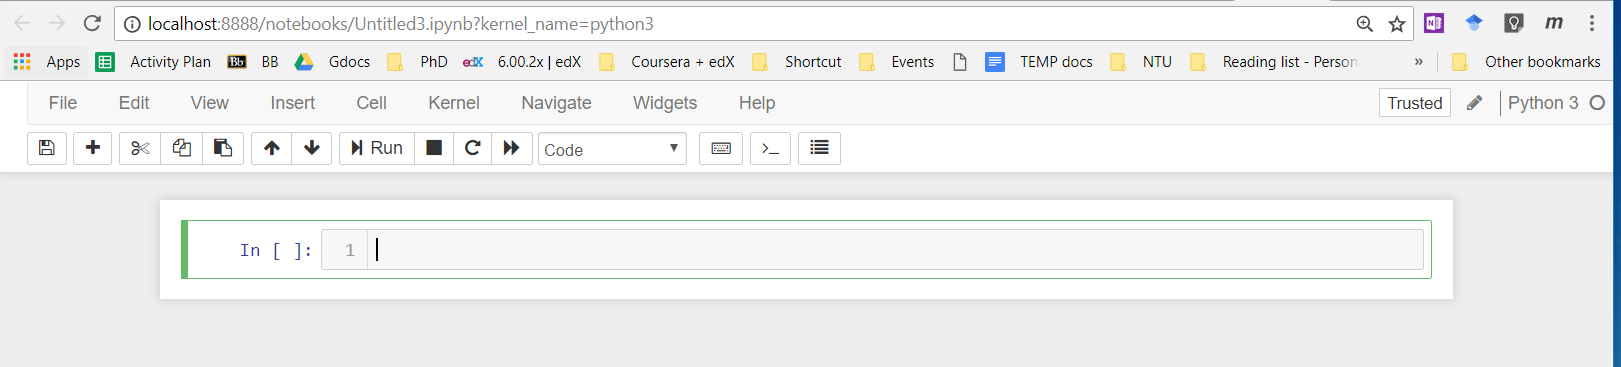
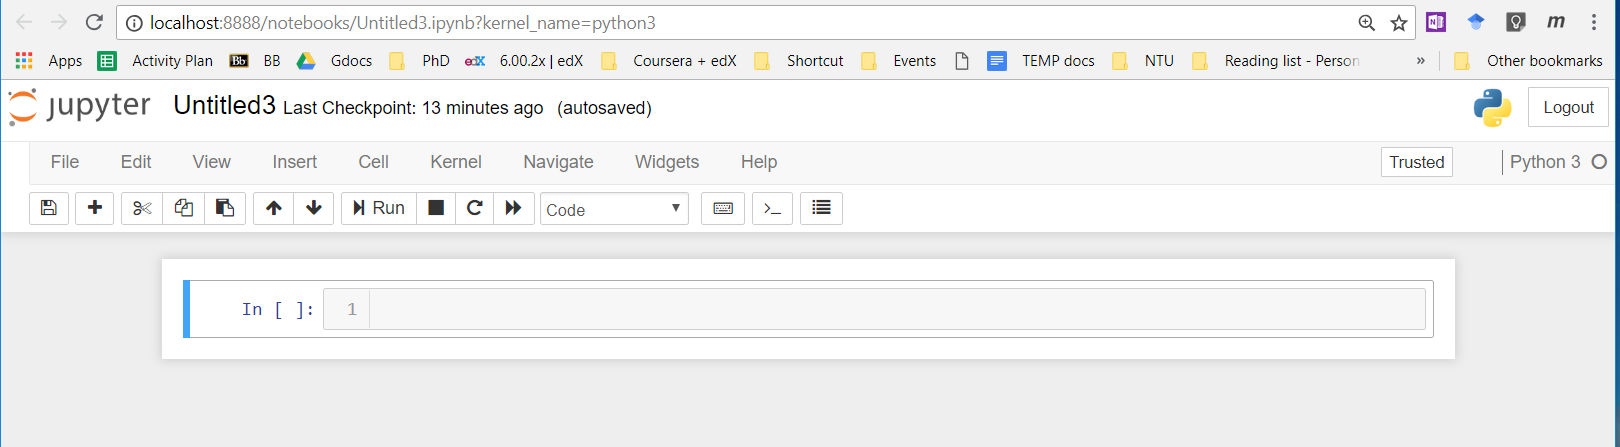
update

diff --git a/html/ML-Coursera-3.html b/html/ML-Coursera-3.html
@@ -78,11 +78,17 @@
 		<!--------------- Open a new Jupyter Notebook -------------->
 		<p class="normal" style=" font-weight: bold;">  Open a new Jupyter Notebook </p>
 		<p class="normal">Click <code class="style">New > Python 3</code> to open a new jupyter notebook.
-	  If you have multiple notebook environments, choose the one in which you want the notebook to run.
+	  If you have multiple notebook environments, choose the one in which you want the notebook to run. A newly opened jupyter notebook looks something like below. We can start coding in it.
 		</p>
 		<img src="https://prasanth-ntu.github.io/html/images/create a jupyter notebook.png" 
 		alt="Launch Jupyter Notebook" style="margin-left:10%; width:80%">
 		
+		<!---------------  Rename Jupyter Notebook Title-------------->
+		<p class="normal" style=" font-weight: bold;">  Rename Jupyter Notebook Title </p>
+		<p class="normal">Click <code class="style">File > Rename</code> to rename the notebook name/ title.
+		</p>
+		<img src="https://prasanth-ntu.github.io/html/images/create a jupyter notebook.png" 
+		alt="Launch Jupyter Notebook" style="margin-left:10%; width:80%">
 		
 		
 		<!--------------- STEP 2 -------------->
